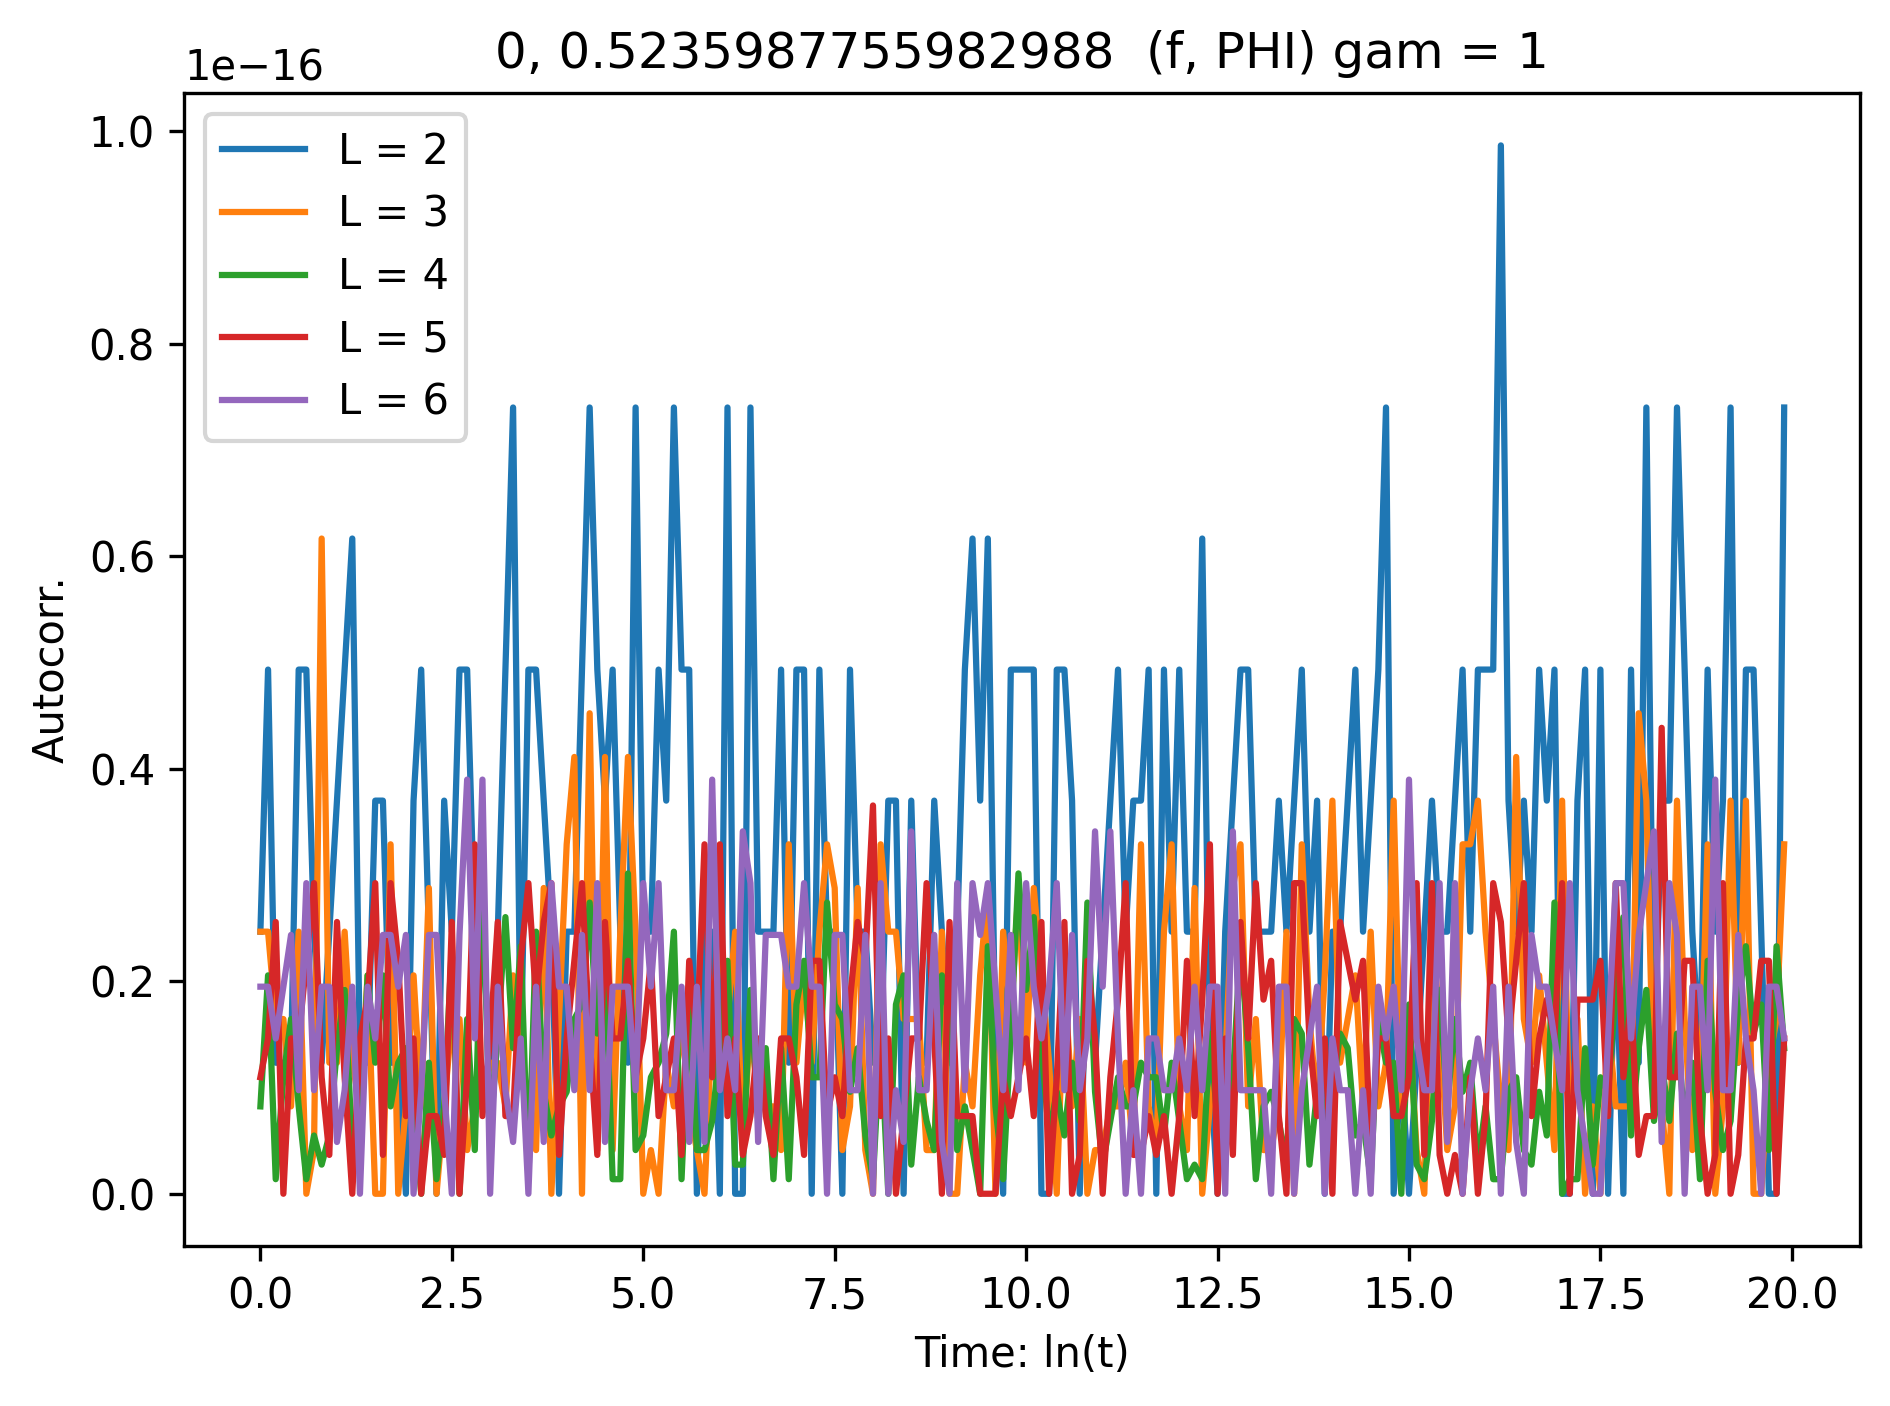
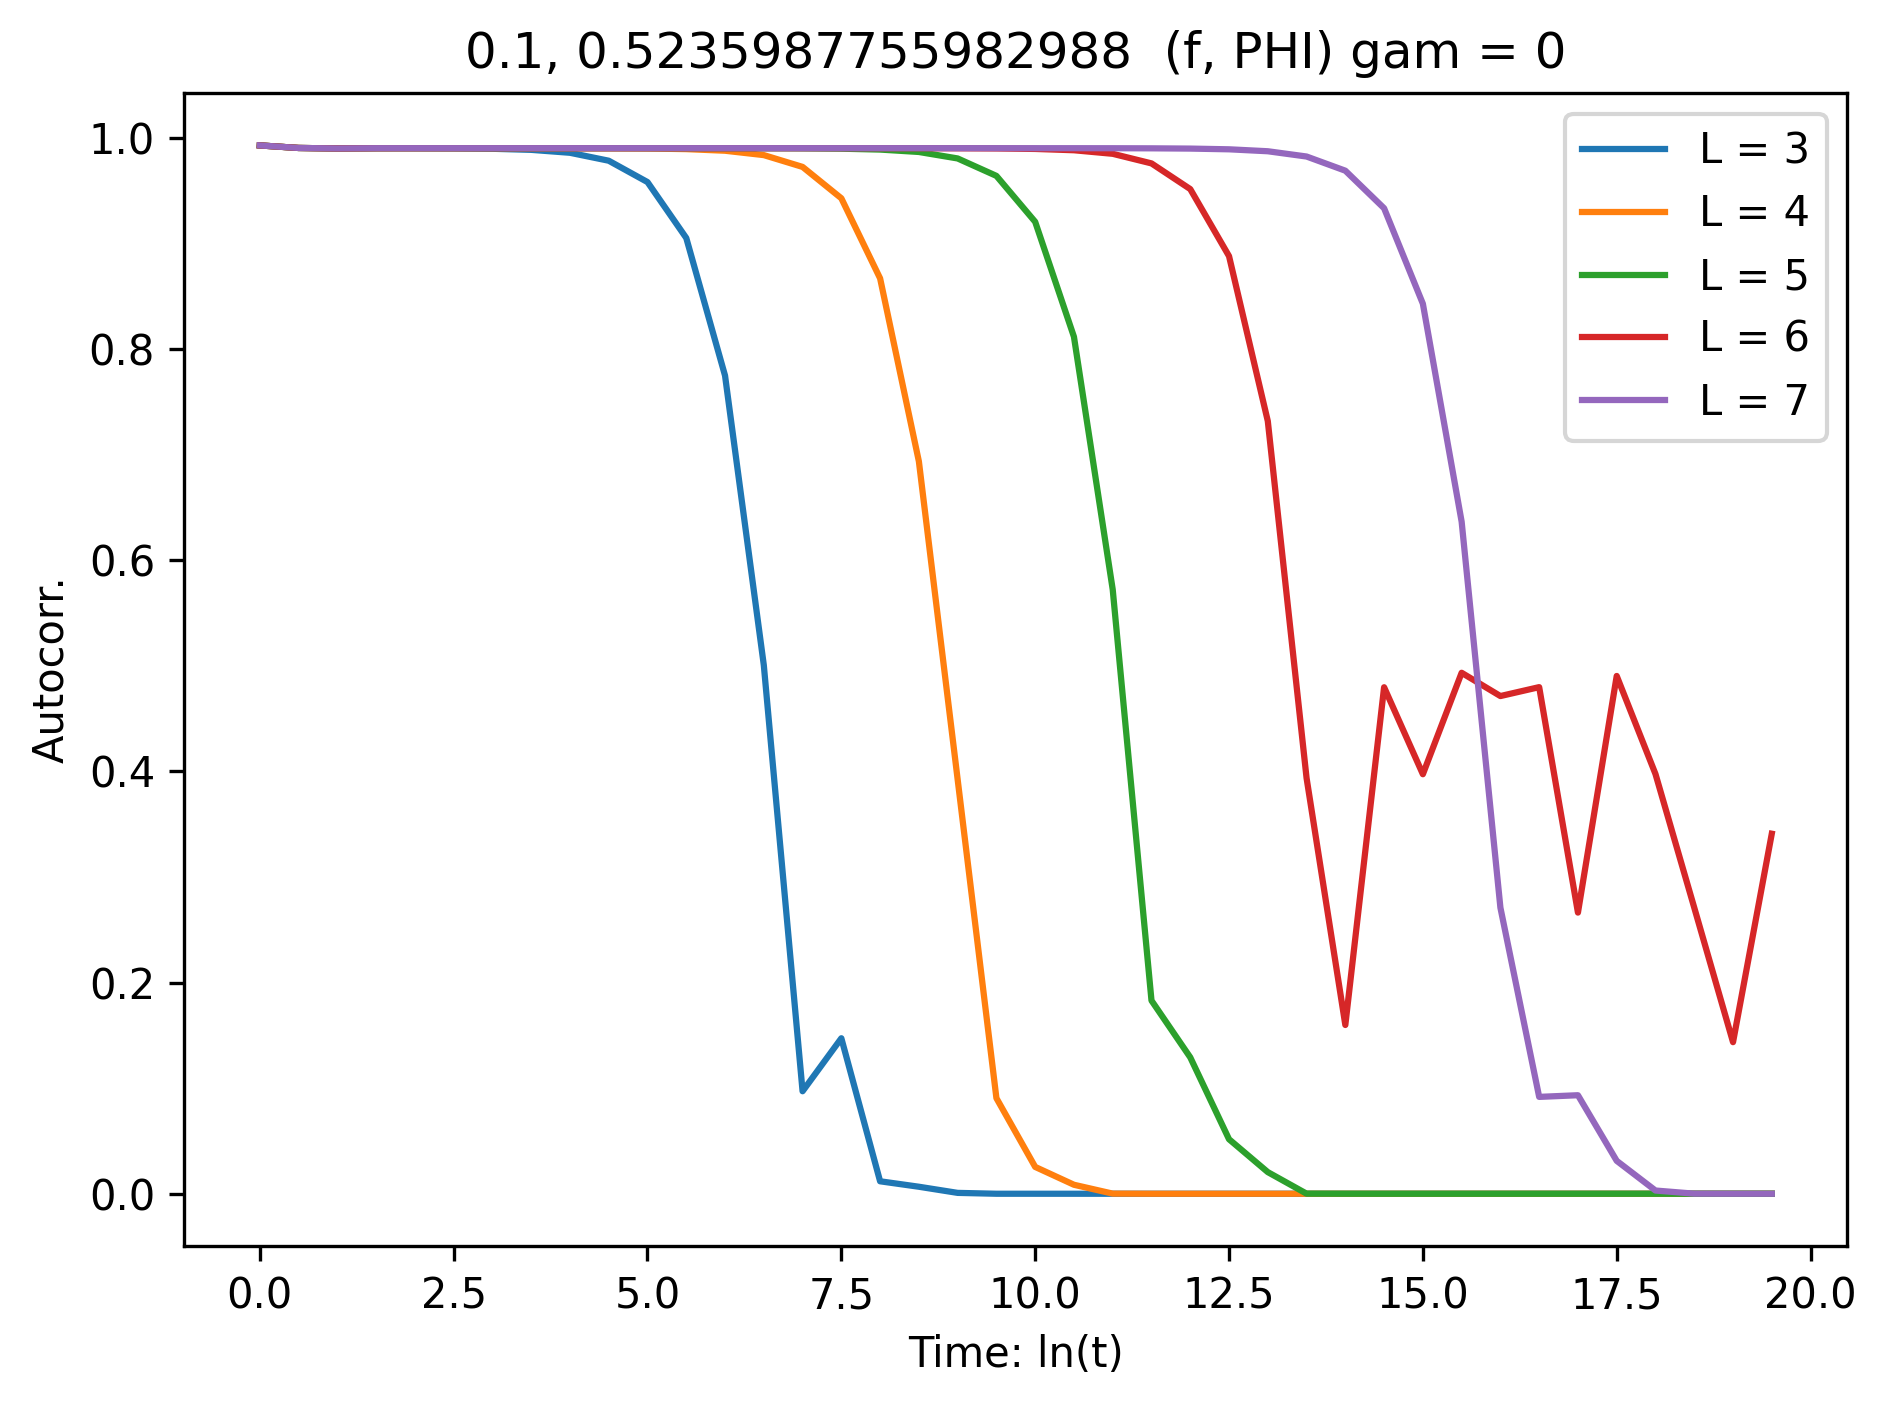
test

diff --git a/CODES/Z3_CODE/main.py b/CODES/Z3_CODE/main.py
@@ -38,10 +38,10 @@ phi_array = [0, np.pi/6, np.pi/4, np.pi/3]
 
 #size_autocorrelator_SIMULATION_NPY(0, 30, .5, L_array, array_parameters[int(sys.argv[1])], 1)
 
-#size_autocorrelator_SIMULATION_NPY(0, 20, .1, [2, 3, 4, 5, 6], [.1, 1*np.pi/6], 1)
-size_correlator_SIM_NPY(0, 20, .1, [2, 3, 4, 5, 6], [0, 1*np.pi/6], 1)
+#size_autocorrelator_SIMULATION_NPY(0, 20, .5, [3, 4, 5, 6, 7], [.1, 1*np.pi/6], 0)
+#size_correlator_SIM_NPY(0, 20, .1, [2, 3, 4, 5, 6], [0, 1*np.pi/6], 1)
 
-#LACZOS_COEF_vary_gam_SIM(70, 5, 1, [.1, np.pi/6])
+LACZOS_COEF_vary_gam_SIM(70, 5, 1, [.1, np.pi/6])
 #gamma_array = np.arange(0, 1, 0.1)
 
 #decay_rates(0, 15, 1, 5, [.15, 1*np.pi/6], gamma_array)
